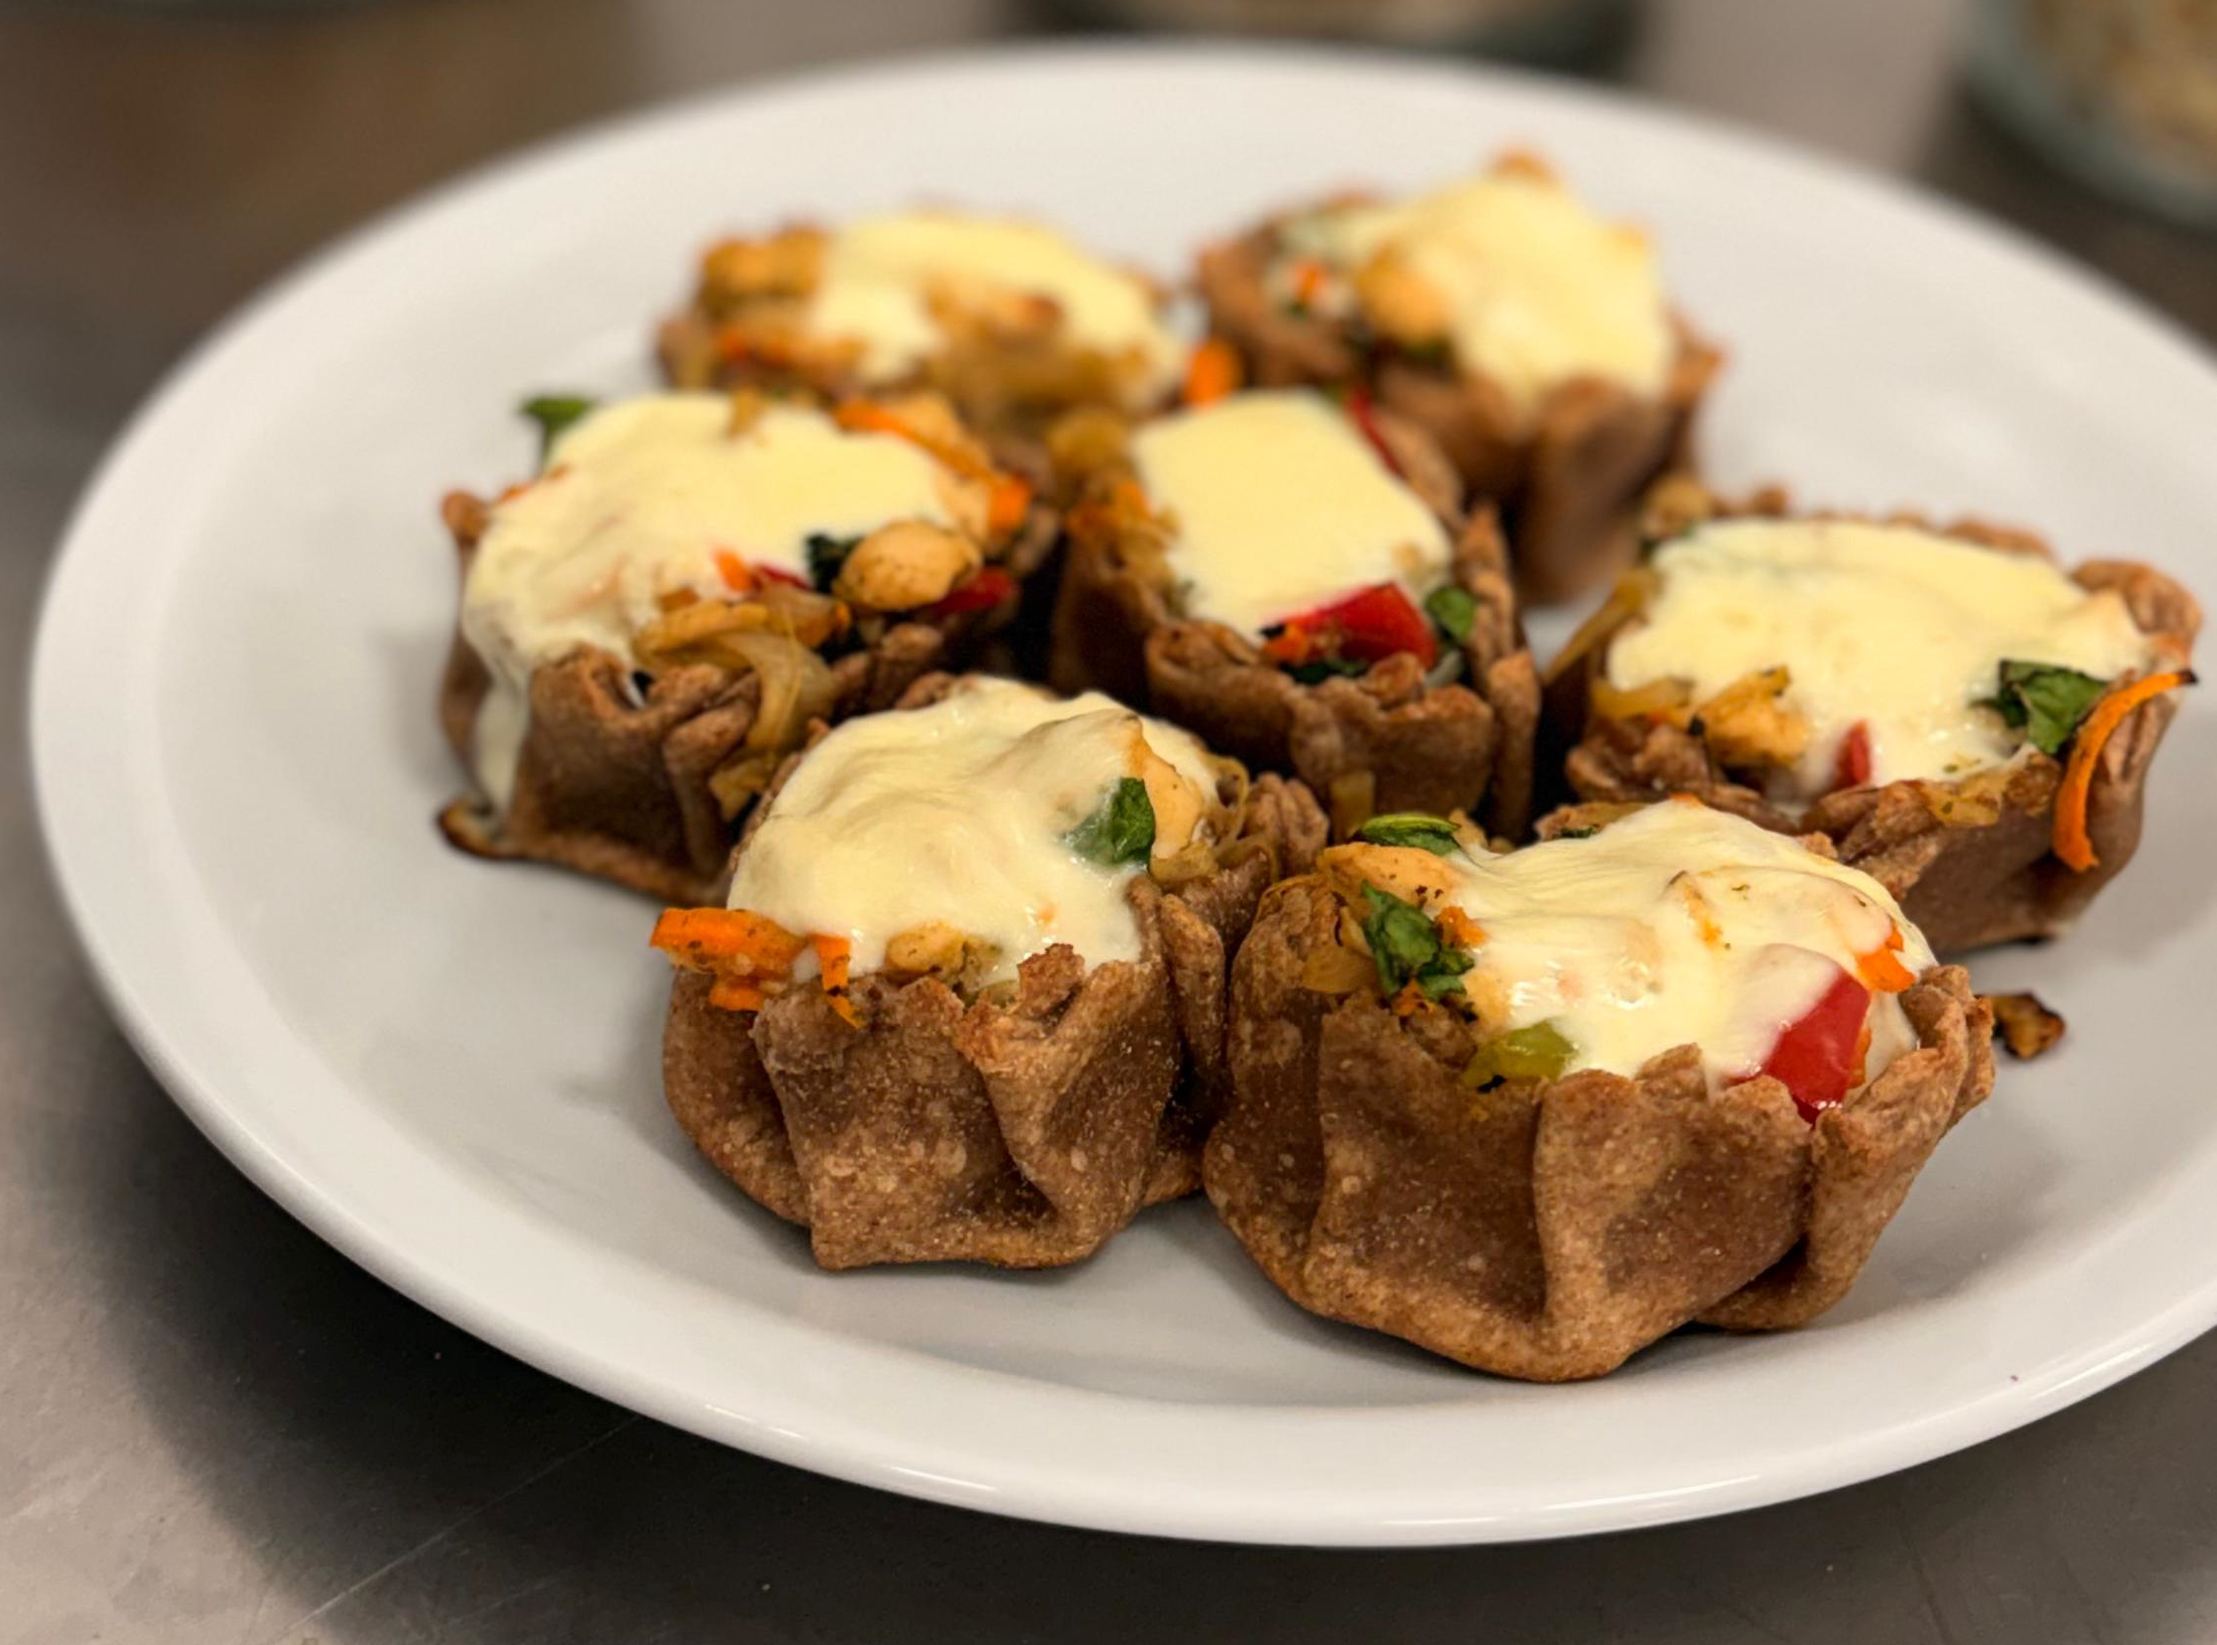
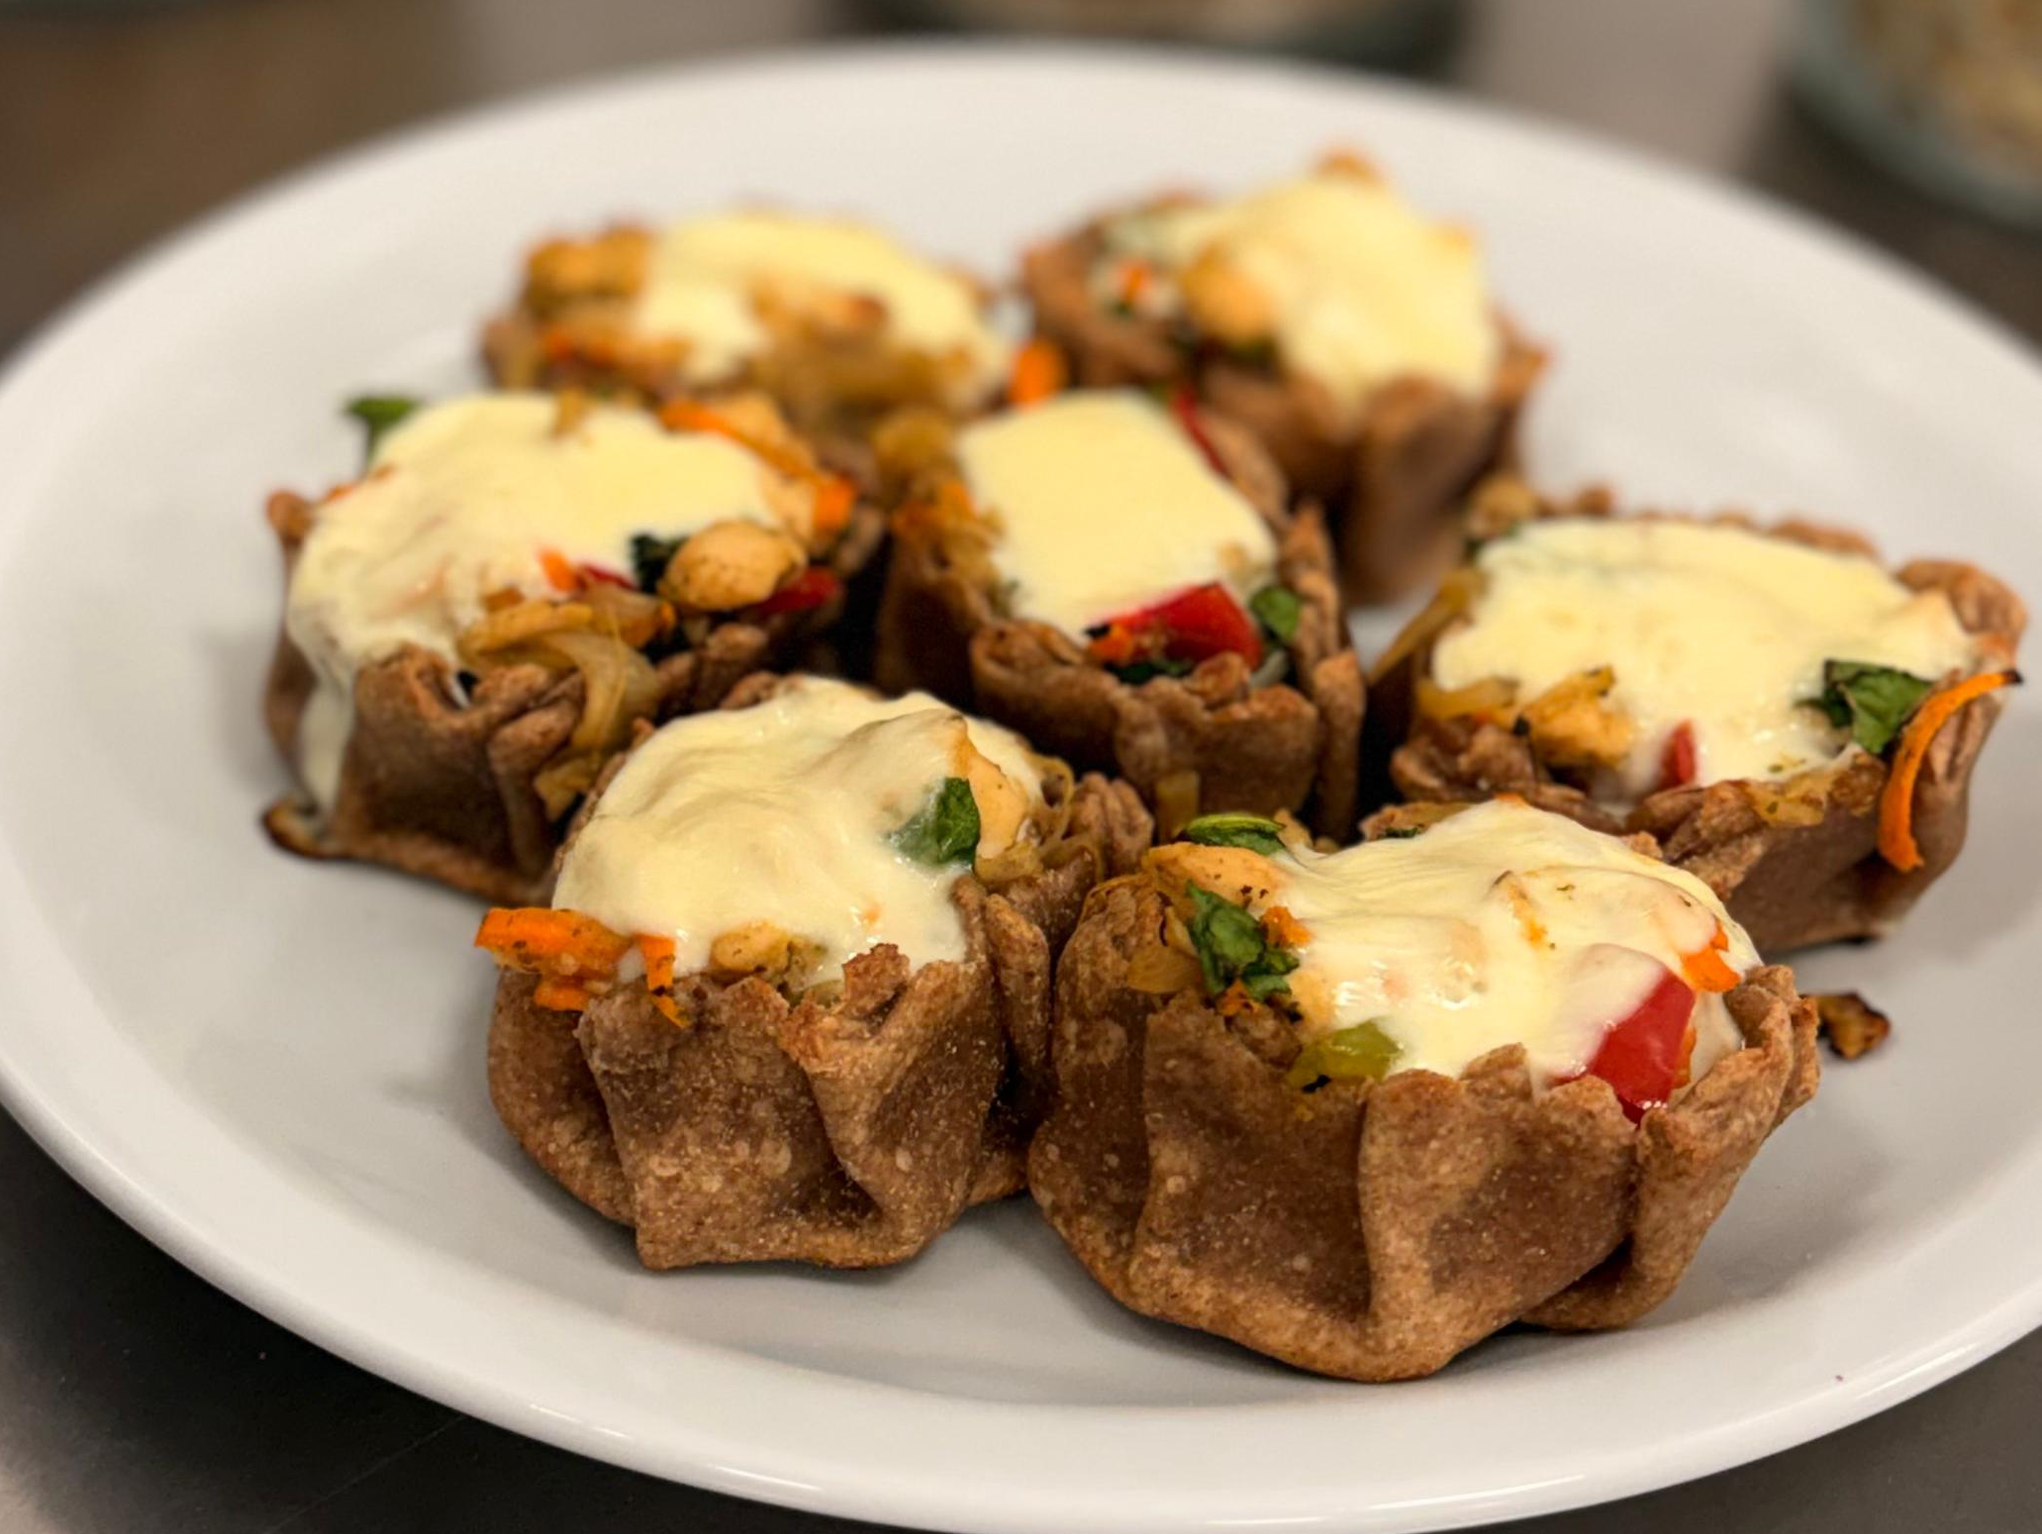
Añadir barra de navegación universal y optimizar estilos para dispositivos móviles

diff --git a/index.html b/index.html
@@ -8,6 +8,16 @@
 <link rel="stylesheet" href="style.css">
 </head>
 <body>
+  
+<nav class="site-navbar">
+  <a href="index.html" class="nav-brand">
+    <i class="ti ti-leaf"></i> Nutrición
+  </a>
+  <div class="nav-links">
+    <a href="index.html" class="nav-item active">Inicio</a>
+    <a href="opcion1.html" class="nav-item">Encuesta</a>
+  </div>
+</nav>
 
 <div class="hero">
   <div class="hero-overlay">
@@ -100,6 +110,37 @@
   </div>
 
 </div>
+<!-- Footer con acceso secreto -->
+<footer style="text-align:center;padding:2rem 1rem 3rem;margin-top:1rem;">
+  <span id="footer-trigger" style="font-size:11px;color:#d1d5db;cursor:default;user-select:none;">Formulario Nutricion v1.2.4</span>
+  <div id="secret-box" style="display:none;margin-top:12px;">
+    <input id="secret-input" type="password" placeholder="Clave de acceso"
+      style="padding:7px 12px;border-radius:8px;border:1px solid #d1d5db;font-size:13px;font-family:inherit;outline:none;width:180px;text-align:center;"
+      onkeydown="checkSecret(event)">
+    <div id="secret-error" style="font-size:11px;color:#c00000;margin-top:6px;display:none;">Clave incorrecta</div>
+  </div>
+</footer>
+
+<script>
+document.getElementById('footer-trigger').addEventListener('click', function() {
+  const box = document.getElementById('secret-box');
+  box.style.display = box.style.display === 'none' ? 'block' : 'none';
+  if (box.style.display === 'block') document.getElementById('secret-input').focus();
+});
+
+function checkSecret(e) {
+  if (e.key !== 'Enter') return;
+  const val = document.getElementById('secret-input').value.trim().toLowerCase();
+  if (val === 'nutriform2026') {
+    window.location.href = 'resultados.html';
+  } else {
+    const err = document.getElementById('secret-error');
+    err.style.display = 'block';
+    document.getElementById('secret-input').value = '';
+    setTimeout(() => { err.style.display = 'none'; }, 2000);
+  }
+}
+</script>
 
 <script>
 function iniciarEncuesta(){

diff --git a/opcion1.html b/opcion1.html
@@ -8,20 +8,22 @@
 <link rel="stylesheet" href="style.css">
 </head>
 <body>
+  
+<nav class="site-navbar">
+  <a href="index.html" class="nav-brand">
+    <i class="ti ti-leaf"></i> Nutrición
+  </a>
+  <div class="nav-links">
+    <a href="index.html" class="nav-item">Inicio</a>
+    <a href="opcion1.html" class="nav-item active">Encuesta</a>
+  </div>
+</nav>
 
 <div class="hero">
-  <img class="hero-img" src="misstartaleta.png" alt="Tartaleta saludable">
   <div class="hero-overlay">
-    <div class="hero-badge">
-      Tartaleta Nutritiva
-    </div>
-    <h1 class="hero-title">
-      Tartaleta Integral Nutritiva
-    </h1>
-    <p class="hero-sub">
-      Análisis sensorial completo basado en apariencia,
-      aroma, textura y sabor del producto alimenticio.
-    </p>
+    <div class="hero-badge"><i class="ti ti-leaf"></i> Química de los Alimentos · 2026</div>
+    <div class="hero-title">Nutrición con propósito</div>
+    <div class="hero-sub">Un trabajo sobre lo que hay detrás de lo que comemos: ciencia, ingredientes y compromiso con la salud.</div>
   </div>
 </div>
 
@@ -55,13 +57,12 @@
     <div class="divider"></div>
     <div class="q-block">
       <div class="q-text">
-        <span class="q-num" style="background: transparent; color: #27500A; font-size: 16px;"><i class="ti ti-gender-intersex"></i></span>
+        <span class="q-num" style="background: transparent; color: #27500A; font-size: 16px;"><i class="ti ti-user"></i></span>
         <span>¿Con qué género te identificás?</span>
       </div>
       <div class="recipe-pills" id="pills-genero">
         <div class="rpill" onclick="selectPill(this, 'genero', 'Masculino')">Masculino</div>
         <div class="rpill" onclick="selectPill(this, 'genero', 'Femenino')">Femenino</div>
-        <div class="rpill" onclick="selectPill(this, 'genero', 'Prefiero no decirlo')">Prefiero no decirlo</div>
       </div>
     </div>
   </div>

diff --git a/style.css b/style.css
@@ -481,6 +481,8 @@ header {
     margin:12px auto 0;
 }
 
+
+
 @media (max-width:768px){
 
     .hero{
@@ -506,4 +508,84 @@ header {
         font-size:0.9rem;
     }
 
+}
+/* =========================================
+   BARRA DE NAVEGACIÓN UNIVERSAL
+   ========================================= */
+.site-navbar {
+    position: sticky;
+    top: 0;
+    z-index: 1000;
+    background: rgba(255, 255, 255, 0.92);
+    backdrop-filter: blur(8px);
+    -webkit-backdrop-filter: blur(8px);
+    border-bottom: 1px solid #e5e7eb;
+    padding: 0.75rem 1.5rem;
+    display: flex;
+    align-items: center;
+    justify-content: space-between;
+    box-shadow: 0 2px 10px rgba(0,0,0,0.03);
+}
+
+.nav-brand {
+    font-weight: 700;
+    color: #3B6D11;
+    text-decoration: none;
+    font-size: 1.15rem;
+    display: flex;
+    align-items: center;
+    gap: 6px;
+    transition: transform 0.2s;
+}
+
+.nav-brand:hover {
+    transform: scale(1.02);
+}
+
+.nav-links {
+    display: flex;
+    gap: 1rem;
+    align-items: center;
+}
+
+.nav-item {
+    text-decoration: none;
+    color: #4b5563;
+    font-size: 0.95rem;
+    font-weight: 500;
+    transition: all 0.2s ease;
+    padding: 0.4rem 0.8rem;
+    border-radius: 8px;
+}
+
+.nav-item:hover {
+    color: #27500A;
+    background: #EAF3DE;
+}
+
+/* Clase para resaltar la página en la que está el usuario */
+.nav-item.active {
+    color: #3B6D11;
+    background: #EAF3DE;
+    font-weight: 600;
+}
+
+/* Optimización específica para celulares */
+@media (max-width: 480px) {
+    .site-navbar {
+        padding: 0.6rem 1rem;
+    }
+    
+    .nav-brand {
+        font-size: 1.05rem;
+    }
+    
+    .nav-links {
+        gap: 0.3rem; /* Acerca los botones para que entren perfecto en pantallas chicas */
+    }
+    
+    .nav-item {
+        font-size: 0.85rem;
+        padding: 0.35rem 0.6rem;
+    }
 }

diff --git a/gracias.html b/gracias.html
@@ -200,7 +200,15 @@
 </head>
 <body>
 
-<!-- Hero igual al formulario -->
+ <nav class="site-navbar">
+  <a href="index.html" class="nav-brand">
+    <i class="ti ti-leaf"></i> Nutrición
+  </a>
+  <div class="nav-links">
+    <a href="index.html" class="nav-item">Inicio</a>
+    <a href="opcion1.html" class="nav-item">Volver a la Encuesta</a>
+  </div>
+</nav>
 <div class="hero">
   <img class="hero-img" src="misstartaleta.png" alt="Tartaleta saludable">
   <div class="hero-overlay">
